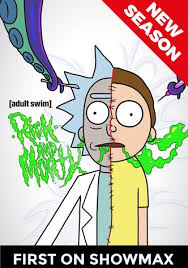
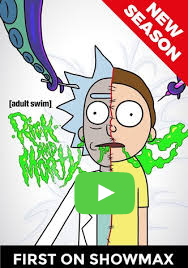
lista las imagenes con sus tamaños

Changed region(s): [[0.3723, 0.6269, 0.7181, 0.806]]

diff --git a/src/style.css b/src/style.css
@@ -2,12 +2,24 @@
     box-sizing: border-box;
     margin: 0;
     padding: 0;
+   
+  
 }
 html, body {
     height: 100%;
     display: flex;
     flex-direction: column;
 }
+
+body{
+    background: url("images/bg.png");
+    background-size: cover;
+    background-position: center;
+    background-repeat: no-repeat;
+    background-attachment:fixed;
+   
+}
+
 .nav-bar {
     background-color: rgb(142, 220, 94) ;
     padding: 20px;
@@ -89,25 +101,22 @@ main {
     height: 100%;
     position: relative;
 }
+
 .container__home {
-    background-image: url("./images/bg.png"); /*change image, better resolution*/
-    background-position: center;
-    background-repeat: no-repeat;
-    background-attachment: fixed;
-    background-size: cover;
     width: 100%;
     height: 100%;
     left: 0;
     bottom: 0;
-}
+} 
 
 .container-slider-leading{
     display: flex;
     margin: auto;
     position: relative;
     max-width: 1000px;
-    width: 50%;
+    width: 100%;
     overflow: hidden;
+    top:5%
 }
 .container-slider{
     display: flex;
@@ -146,19 +155,69 @@ main {
 
  }
 }
+
+.container-history{
+    max-width: 90%;
+    left: 5%;
+    top: 7%;
+    display: flex;
+    justify-content: space-between;
+    border: 2px solid navajowhite;
+    margin: auto;
+    overflow: hidden;
+   
+}
+
+
+.promotion{
+    padding: 15px;
+    background: black;
+    box-shadow: 8px 8px  35px 0 yellow;
+    margin: 5% 5% 5% 5%;
+    border-radius: 20px; 
+}
+
+.promotion img{
+    justify-content: center;    
+    position: relative;
+    justify-content: center;
+}
+ .promotion hr{
+     margin: 10px;
+ }
+
+.promotion, .history h3{
+    color: yellow;
+    text-align: center;
+}
+
+.history{
+    
+    padding: 20px;
+    background: black;
+    box-shadow: 8px 8px  35px 0 yellow;
+    margin: 5% 5% 5% 5%;
+    border-radius: 20px; 
+    
+}
+.history p{
+    font-size: 20px;
+    color: white;
+    display: flex;
+    text-align: center;
+}
+
+    
+
+
 .container__characters {
-    background-image: url("./images/bg.png"); /*change image, better resolution*/
-    background-position: center;
-    background-repeat: no-repeat;
-    background-attachment: fixed;
-    background-size: cover;
     width: 100%;
     height: 100%;
     left: 0;
     bottom: 0;
 }
 .container__facts {
-    background-image: url("./images/bgFacts.png"); /*change image, better resolution*/
+    background: url("./images/bgFacts.png"); /*change image, better resolution*/
     background-position: center;
     background-repeat: no-repeat;
     background-attachment: fixed;

diff --git a/src/index.html b/src/index.html
@@ -74,20 +74,44 @@
               <img src="1 (1).png" alt="" />
             </div>
             <div class="my-slider">
-              <img src="images/slider1.jpg" alt="" />
+              <img src="images/silider1.png" alt="" />
             </div>
             <div class="my-slider">
-              <img src="images/slider2.png" alt="" />
+              <img src="images/slider0.png" alt="" />
             </div>
           </div>
         </div>
-        
-      </div>
+        <div class="container-history">
+            <div class="promotion">
+              <h3>Next Season Five</h3>
+              <a
+                href="https://www.adultswim.com/videos/rick-and-morty/rick-and-morty-season-5-uncensored-trailer             "
+                target="_blank"> <img src="images/posted.jpg" alt="" /></a>
+                
+                <p>View new promotional</p>
+                <hr>
+                <p> Lorem ipsum dolor sit amet consectetur adipisicing elit. Nemo consequatur placeat dolores fugit, magni maxime quis quaerat praesentium magnam veritatis?</p>
+              </div>
+            <div class="history">
+              <h3>WELCOME</h3>
+              <p>Unless you’ve been living on a tiny planet or inside a Microverse car battery since 2013, there’s a very high chance you’ve at least heard of Adult Swim’s Rick and Morty. Created by Justin Roiland and Dan Harmon, the adventures of this pair travelling to other planets and dimensions through portals and Rick's flying car.<br>
+                This wonderfully hallucinogenic animation is about Rick Sanchez, the smartest mammal in the galaxy as well as a sociopathic narcissist, and his grandson Morty, a simple, neurotic teenage boy. <br>
+                you don’t have to be as smart as Rick Sanchez to enjoy this show.
+                Regardless of whether you’re a Rick, a Morty, a Summer, a Beth or even a god-damn Jerry, then this show has something for you.
+
+              </p>
+                <div class="png">
+                  <img src="images/pngfind.com-rick-and-morty-portal-164411.png" width="200px">
+                </div>
+            </div>
+          </div>
+        </div>
       <div class="container__characters" id="characters">Characters</div>
       <div class="container__facts" id="facts">
         <div id="content__facts">
           <h1>Ricktastic facts</h1>
-          <div id="facts1"></div>
+          <div id="facts1">
+          </div>
           <div id="facts2"></div>
         </div>
       </div>
